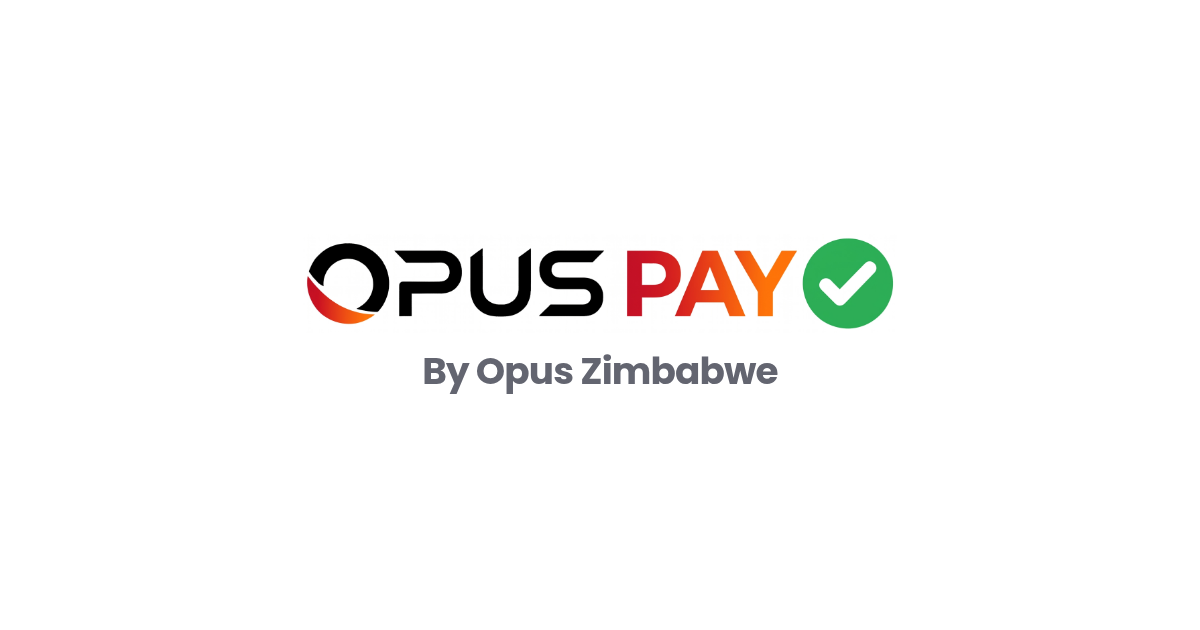
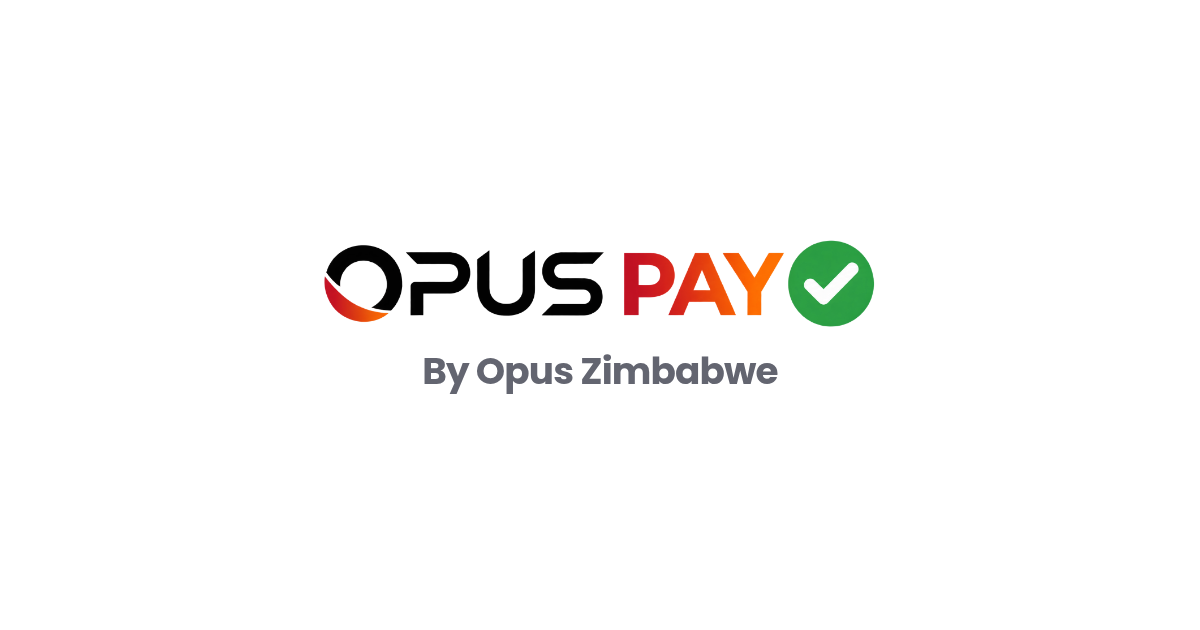
Restore one-screen payment form and transparent Opus Pay branding

Changed region(s): [[0.2467, 0.3619, 0.7708, 0.5429]]

diff --git a/components/PaymentCheckout.tsx b/components/PaymentCheckout.tsx
@@ -45,10 +45,7 @@ export default function PaymentCheckout() {
  const [ready, setReady] = useState(false);
  const [motion,setMotion]=useState(false);
  const [viewport,setViewport]=useState({width:1200,height:1000});
- const [detailStep,setDetailStep]=useState(0);
- const [includeNameStep,setIncludeNameStep]=useState(false);
  useEffect(()=>{const update=()=>{const v=window.visualViewport;const height=Math.round(v?.height||innerHeight);setViewport({width:innerWidth,height});document.documentElement.style.setProperty('--opus-viewport-height',height+'px')};update();window.addEventListener('resize',update);window.visualViewport?.addEventListener('resize',update);const bodyOverflow=document.body.style.overflow,htmlOverflow=document.documentElement.style.overflow;if(!session){document.body.style.overflow='hidden';document.documentElement.style.overflow='hidden'}return()=>{window.removeEventListener('resize',update);window.visualViewport?.removeEventListener('resize',update);document.body.style.overflow=bodyOverflow;document.documentElement.style.overflow=htmlOverflow;document.documentElement.style.removeProperty('--opus-viewport-height')}},[session]);
- useEffect(()=>{setDetailStep(0);setIncludeNameStep(false)},[form.method]);
  const entryRef=useRef<HTMLElement>(null);
  useEffect(()=>{setMotion(motionAllowed())},[]);
  useEffect(()=>{if(form.method)requestAnimationFrame(()=>entryRef.current?.focus({preventScroll:true}))},[form.method]);
@@ -136,7 +133,7 @@ export default function PaymentCheckout() {
  }, [session, checkStatus]);
  function change(key: keyof Form, value: string) { setForm(previous => ({ ...previous, [key]: value, ...(key === 'currency' ? { method: '' } : {}) })); if (key === 'method' || key === 'currency') setPhoneTouched(false); setError(''); }
  async function pay(event: React.FormEvent) {
-  event.preventDefault(); if(compactDetails&&detailStep<detailSteps.length-1){advanceDetails();return} if (busy || !config?.configured || configBusy || domainLoading || domainBlocked || careLoading || careBlocked) return;
+  event.preventDefault(); if (busy || !config?.configured || configBusy || domainLoading || domainBlocked || careLoading || careBlocked) return;
   if (!selectedMethod) return;
   if (network) { const problem = mobileNumberError(form.phone, network); if (problem) { setPhoneTouched(true); setError(problem); return; } }
   if (amountError) { setError(amountError); return; }
@@ -176,19 +173,9 @@ export default function PaymentCheckout() {
  const phoneValid = !network || !mobileNumberError(form.phone, network);
  const amountValue = Number(form.amount);
  const amountError = !form.amount ? '' : !/^\d+(\.\d{1,2})?$/.test(form.amount) ? 'Enter an amount with no more than two decimal places.' : selectedMethod && (amountValue < selectedMethod.minimumAmount || amountValue > selectedMethod.maximumAmount) ? `This method accepts ${form.currency} ${selectedMethod.minimumAmount.toFixed(2)}–${selectedMethod.maximumAmount.toFixed(2)}. Check your amount or choose another method.` : '';
- const compactDetails=viewport.width<701||viewport.height<900;
- const detailSteps=['reference','amount',...(network?['phone']:[]),...(!domainAccess?['contact']:[]),...(includeNameStep&&!domainAccess?['payer']:[]),'review'];
- const visibleStep=detailSteps[Math.min(detailStep,detailSteps.length-1)];
- const showStep=(step:string)=>!compactDetails||visibleStep===step;
- function advanceDetails(){
-  for(const input of Array.from(entryRef.current?.querySelectorAll<HTMLInputElement|HTMLSelectElement>('input,select')||[]))if(!input.reportValidity())return;
-  if(visibleStep==='amount'&&amountError){setError(amountError);return}
-  if(visibleStep==='phone'&&network){const problem=mobileNumberError(form.phone,network);if(problem){setPhoneTouched(true);setError(problem);return}}
-  setError('');setDetailStep(value=>Math.min(value+1,detailSteps.length-1));
- }
  const paid = receipt?.paid === true && !checkError;
  const pending = !receipt || !receipt.terminal;
- return <main className="payment-page opus-pay-page" data-motion={motion} data-compact-details={compactDetails} data-keyboard={viewport.height<430}>
+ return <main className="payment-page opus-pay-page" data-motion={motion} data-keyboard={viewport.height<430}>
   <article className={`payment-sheet ${session ? 'payment-receipt' : ''} ${session && pending && !checkError ? 'payment-pending' : ''} opus-pay-sheet`} aria-busy={busy || checking}>
    {paid&&<div className="receipt-verified-watermark" aria-hidden="true">OPUS<span>VERIFIED</span></div>}
    <header className="opus-pay-header"><OpusPayBrand/></header>
@@ -200,17 +187,16 @@ export default function PaymentCheckout() {
     <form onSubmit={pay} className="payment-form">
      {!selectedMethod&&<PaymentMethodPicker methods={config?.methods||[]} loading={configBusy} error={configError} onRetry={()=>setConfigRetry(v=>v+1)} disabled={busy||domainLoading||domainBlocked||careLoading||careBlocked} onSelect={method=>{setMotion(motionAllowed());change('method',method.code)}}/>}
      {!configBusy && config && !config.configured && <div className="payment-notice" role="status">Online payments are being set up. {support}</div>}
-     {selectedMethod && <section id="payment-entry" ref={entryRef} tabIndex={-1} className="payment-entry opus-detail-card" aria-labelledby="payment-entry-title"><div className="opus-selected-method"><MethodLogo name={selectedMethod.name}/><button type="button" disabled={busy||resumable} onClick={()=>change('method','')}>Change method</button></div><h1 id="payment-entry-title">{compactDetails?({reference:'Your reference',amount:'Payment amount',phone:'Mobile number',contact:'Receipt contact',payer:'Payer name',review:'Review payment'}[visibleStep]):'Payment details'}</h1>
-      {showStep('reference')&&<div className="opus-reference-field"><label>Invoice or project reference<input name="invoice" required maxLength={120} autoComplete="off" value={form.invoice} onChange={event=>change('invoice',event.target.value)} placeholder="Reference from your quote or invoice" disabled={busy||Boolean(domainAccess)||Boolean(careAccess)}/></label></div>}
-      {showStep('amount')&&<div className="opus-amount-currency"><label>Amount to pay<input name="amount" type="text" inputMode="decimal" required maxLength={12} value={form.amount} onChange={event=>change('amount',event.target.value)} aria-invalid={Boolean(amountError)} aria-describedby="payment-amount-feedback" placeholder="0.00" disabled={busy||Boolean(domainAccess)||Boolean(careAccess)}/></label><label>Currency<select aria-label="Payment currency" value="USD" disabled={busy}><option value="USD">USD</option><option value="ZiG" disabled>ZiG — temporarily unavailable</option></select></label></div>}
-      {network&&showStep('phone') && <div className="payment-mobile-field"><label htmlFor="payment-mobile">{network === 'onemoney' ? 'OneMoney' : 'EcoCash'} mobile number<input id="payment-mobile" name="phone" type="tel" inputMode="tel" autoComplete="tel" required maxLength={24} value={form.phone} onChange={event => change('phone', event.target.value)} onBlur={() => setPhoneTouched(true)} aria-invalid={Boolean(phoneError)} aria-describedby="payment-mobile-feedback" placeholder={network === 'onemoney' ? '0710 000 000' : '0770 000 000'} disabled={busy} /></label><p id="payment-mobile-feedback" className={`payment-field-feedback ${phoneError ? 'is-error' : ''}`} role={phoneError ? 'alert' : undefined}>{phoneError || (network === 'onemoney' ? 'OneMoney: 071. You can also use +263.' : 'EcoCash: 077, 078 or 079. You can also use +263.')}</p></div>}
-      {showStep('amount')&&<p id="payment-amount-feedback" className={`payment-field-feedback ${amountError ? 'is-error' : ''}`} role={amountError ? 'alert' : undefined}>{amountError || `Use the ${form.currency} amount agreed on your quote or invoice.`}</p>}
-      {!domainAccess&&showStep('contact')&&<><label className="opus-email-field">Receipt email (optional)<input name="email" type="email" inputMode="email" autoComplete="email" maxLength={254} value={form.email} onChange={event=>change('email',event.target.value)} placeholder="you@example.com" disabled={busy}/></label>{compactDetails?<button type="button" className="opus-add-payer" onClick={()=>{for(const input of Array.from(entryRef.current?.querySelectorAll<HTMLInputElement>('input')||[]))if(!input.reportValidity())return;setIncludeNameStep(true);setDetailStep(detailSteps.indexOf('contact')+1)}}>+ Add payer name</button>:<details className="payment-optional"><summary>+ Add payer name</summary><label>Payer name<input name="name" autoComplete="name" maxLength={100} value={form.name} onChange={event=>change('name',event.target.value)} disabled={busy}/></label></details>}</>}
-      {compactDetails&&showStep('payer')&&<label>Payer name (optional)<input name="name" autoComplete="name" maxLength={100} value={form.name} onChange={event=>change('name',event.target.value)} disabled={busy}/></label>}
-      {showStep('review')&&<><div className="opus-total"><span>Total to pay</span><strong>{form.currency} {Number.isFinite(amountValue)?amountValue.toLocaleString('en-US',{minimumFractionDigits:2,maximumFractionDigits:2}):'0.00'}</strong></div>
+     {selectedMethod && <section id="payment-entry" ref={entryRef} tabIndex={-1} className="payment-entry opus-detail-card" aria-labelledby="payment-entry-title"><div className="opus-selected-method"><MethodLogo name={selectedMethod.name}/><button type="button" disabled={busy||resumable} onClick={()=>change('method','')}>Change method</button></div><h1 id="payment-entry-title">Payment details</h1>
+      {<div className="opus-reference-field"><label>Invoice or project reference<input name="invoice" required maxLength={120} autoComplete="off" value={form.invoice} onChange={event=>change('invoice',event.target.value)} placeholder="Reference from your quote or invoice" disabled={busy||Boolean(domainAccess)||Boolean(careAccess)}/></label></div>}
+      {<div className="opus-amount-currency"><label>Amount to pay<input name="amount" type="text" inputMode="decimal" required maxLength={12} value={form.amount} onChange={event=>change('amount',event.target.value)} aria-invalid={Boolean(amountError)} aria-describedby="payment-amount-feedback" placeholder="0.00" disabled={busy||Boolean(domainAccess)||Boolean(careAccess)}/></label><label>Currency<select aria-label="Payment currency" value="USD" disabled={busy}><option value="USD">USD</option><option value="ZiG" disabled>ZiG — temporarily unavailable</option></select></label></div>}
+      {network && <div className="payment-mobile-field"><label htmlFor="payment-mobile">{network === 'onemoney' ? 'OneMoney' : 'EcoCash'} mobile number<input id="payment-mobile" name="phone" type="tel" inputMode="tel" autoComplete="tel" required maxLength={24} value={form.phone} onChange={event => change('phone', event.target.value)} onBlur={() => setPhoneTouched(true)} aria-invalid={Boolean(phoneError)} aria-describedby="payment-mobile-feedback" placeholder={network === 'onemoney' ? '0710 000 000' : '0770 000 000'} disabled={busy} /></label><p id="payment-mobile-feedback" className={`payment-field-feedback ${phoneError ? 'is-error' : ''}`} role={phoneError ? 'alert' : undefined}>{phoneError || (network === 'onemoney' ? 'OneMoney: 071. You can also use +263.' : 'EcoCash: 077, 078 or 079. You can also use +263.')}</p></div>}
+      {<p id="payment-amount-feedback" className={`payment-field-feedback ${amountError ? 'is-error' : ''}`} role={amountError ? 'alert' : undefined}>{amountError || `Use the ${form.currency} amount agreed on your quote or invoice.`}</p>}
+      {!domainAccess&&<><label className="opus-email-field">Receipt email (optional)<input name="email" type="email" inputMode="email" autoComplete="email" maxLength={254} value={form.email} onChange={event=>change('email',event.target.value)} placeholder="you@example.com" disabled={busy}/></label><label className="opus-payer-field">Payer name (optional)<input name="name" autoComplete="name" maxLength={100} value={form.name} onChange={event=>change('name',event.target.value)} disabled={busy}/></label></>}
+      {<><div className="opus-total"><span>Total to pay</span><strong>{form.currency} {Number.isFinite(amountValue)?amountValue.toLocaleString('en-US',{minimumFractionDigits:2,maximumFractionDigits:2}):'0.00'}</strong></div>
       <button type="submit" className="payment-submit" disabled={form.currency!=='USD' || busy || configBusy || domainLoading || domainBlocked || careLoading || careBlocked || !config?.configured || !phoneValid || !form.amount || !form.invoice.trim() || Boolean(amountError)}>{busy ? <><LoaderCircle size={20} className="payment-spinner" />Starting secure payment…</> : <><ShieldCheck size={20} />{directMobile ? 'Request payment' : (selectedMethod?.provider==='paynow'?'Continue to Paynow':'Continue to Pesepay')}</>}</button>
       <p className="payment-small text-center">{directMobile ? 'Confirm the payment request on your phone. Enter your PIN only in your provider’s trusted prompt.' : `Authorise securely on ${selectedMethod?.provider==='paynow'?'Paynow':'Pesepay'}. We will confirm the result when you return.`}</p></>}
-      {compactDetails&&<div className="opus-detail-navigation">{detailStep>0&&<button type="button" disabled={busy} onClick={()=>{setError('');setDetailStep(v=>Math.max(0,v-1))}}>Back</button>}{detailStep<detailSteps.length-1&&<button type="button" className="payment-submit" onClick={advanceDetails}>Continue <ArrowUpRight size={16}/></button>}</div>}
+
      </section>}
         </form>
    </> : <>

diff --git a/components/opus-pay.css b/components/opus-pay.css
@@ -266,3 +266,45 @@
 /* Exact owner-supplied artwork; the SVG viewport removes only blank margins. */
 .opus-official-logo{display:block;width:100%;height:45px;overflow:hidden;transform:none;mix-blend-mode:multiply}
 @media(max-width:700px){.opus-official-logo{height:40px}}
+
+/* One compact form: every field stays on the same screen, without step navigation. */
+.opus-pay-page:has(.opus-detail-card) .opus-pay-header{height:96px;padding-top:18px}
+.opus-pay-page:has(.opus-detail-card) .opus-pay-footer{margin-top:22px}
+.opus-pay-page .opus-detail-card{display:grid;grid-template-columns:minmax(0,1fr) minmax(0,1fr);column-gap:14px;row-gap:10px;padding:22px 28px;max-width:600px}
+.opus-detail-card>.opus-selected-method,.opus-detail-card>h1,.opus-detail-card>.opus-reference-field,.opus-detail-card>.opus-amount-currency,.opus-detail-card>.payment-mobile-field,.opus-detail-card>.payment-field-feedback,.opus-detail-card>.opus-total,.opus-detail-card>.payment-submit,.opus-detail-card>.payment-small{grid-column:1/-1}
+.opus-pay-page .opus-detail-card h1{font-size:18px;margin:0 0 2px}
+.opus-detail-card .opus-selected-method{height:32px;min-height:32px;margin:0}
+.opus-detail-card .opus-selected-method .opus-provider-art{transform:scale(.55);transform-origin:left center}
+.opus-detail-card .opus-reference-field,.opus-detail-card .opus-email-field,.opus-detail-card .opus-payer-field{margin:0}
+.opus-pay-page .opus-detail-card label{font-size:11px;gap:4px;min-width:0;display:flex;flex-direction:column}
+.opus-pay-page .opus-detail-card input,.opus-pay-page .opus-detail-card select{width:100%;min-width:0;min-height:40px;padding:8px 10px;font-size:16px}
+.opus-pay-page .opus-detail-card .payment-field-feedback{margin:0;font-size:10px;line-height:1.3}
+.opus-detail-card .payment-mobile-field .payment-field-feedback{margin-top:4px}
+.opus-detail-card .opus-total{margin:0;padding-top:8px}.opus-detail-card .opus-total strong{font-size:20px}
+.opus-pay-page .opus-detail-card .payment-submit{margin:0;min-height:44px;font-size:13px}
+.opus-pay-page .opus-detail-card .payment-small{margin:0;font-size:10px;line-height:1.4}
+.opus-method-group{height:184px}.opus-mobile-group{height:266px;margin-top:68px}
+@media(max-width:700px){.opus-method-group{height:165px}.opus-mobile-group{height:242px;margin-top:56px}.opus-pay-page:has(.opus-detail-card) .opus-pay-header{height:84px;padding-top:12px}.opus-pay-page .opus-detail-card{padding:18px;column-gap:10px;row-gap:8px}.opus-pay-page:has(.opus-detail-card) .opus-pay-footer{margin-top:18px}}
+@media(min-width:701px) and (max-height:780px){.opus-method-group{height:158px}.opus-mobile-group{height:219px;margin-top:54px}}
+@media(min-width:701px) and (max-height:680px){.opus-method-group{height:133px}.opus-mobile-group{height:187px;margin-top:46px}}
+@media(max-width:700px) and (max-height:680px){.opus-method-group{height:139px}.opus-mobile-group{height:199px;margin-top:44px}.opus-pay-page:has(.opus-detail-card) .opus-pay-header{height:62px;padding-top:6px}.opus-pay-page:has(.opus-detail-card) .opus-pay-brand{width:210px}.opus-pay-page:has(.opus-detail-card) .opus-official-logo{height:28px}.opus-pay-page:has(.opus-detail-card) .opus-pay-attribution{font-size:12px}.opus-pay-page .opus-detail-card{padding:12px 16px;row-gap:6px}.opus-pay-page .opus-detail-card input,.opus-pay-page .opus-detail-card select{min-height:35px;padding:5px 8px}.opus-pay-page:has(.opus-detail-card) .opus-pay-footer{margin-top:12px}.opus-pay-page:has(.opus-detail-card) .opus-footer-rule{margin-bottom:7px}}
+.opus-pay-page[data-keyboard=true]:has(.opus-detail-card){padding:0 8px}
+.opus-pay-page[data-keyboard=true]:has(.opus-detail-card) .opus-pay-header{height:28px!important;padding-top:2px!important}
+.opus-pay-page[data-keyboard=true] .opus-pay-brand{width:130px;transform:none}.opus-pay-page[data-keyboard=true] .opus-official-logo{height:22px}.opus-pay-page[data-keyboard=true] .opus-pay-attribution{display:none}
+.opus-pay-page[data-keyboard=true] .opus-detail-card{padding:7px 12px;gap:4px 8px}
+.opus-pay-page[data-keyboard=true] .opus-detail-card h1{position:absolute;width:1px;height:1px;overflow:hidden;clip-path:inset(50%)}
+.opus-pay-page[data-keyboard=true] .opus-detail-card .opus-reference-field,.opus-pay-page[data-keyboard=true] .opus-detail-card .payment-mobile-field{grid-column:auto}
+.opus-pay-page[data-keyboard=true] .opus-detail-card input,.opus-pay-page[data-keyboard=true] .opus-detail-card select{min-height:30px;height:30px;padding:3px 6px}
+.opus-pay-page[data-keyboard=true] .opus-detail-card .opus-selected-method{height:22px;min-height:22px}
+.opus-pay-page[data-keyboard=true] .opus-detail-card .payment-submit{min-height:34px;margin:0}
+.opus-pay-page[data-keyboard=true] .opus-total{padding-top:3px}.opus-pay-page[data-keyboard=true] .opus-total strong{font-size:16px}
+.opus-pay-page[data-keyboard=true] .opus-detail-card .payment-field-feedback:not(.is-error){display:none}
+.opus-pay-page[data-keyboard=true] .opus-detail-card .payment-small{font-size:9px;line-height:1.2}
+.opus-pay-page[data-motion=true] .opus-detail-card{animation-duration:360ms}
+.opus-official-logo{mix-blend-mode:normal}
+.opus-pay-page .opus-detail-card label{line-height:1.3}
+.opus-pay-page .opus-detail-card .payment-mobile-field{margin:0}
+.opus-pay-page .opus-detail-card input,.opus-pay-page .opus-detail-card select{height:40px;line-height:1.25}
+.opus-pay-page .opus-detail-card .payment-submit{line-height:1.3;padding:8px}
+@media(max-width:700px) and (max-height:680px){.opus-pay-page .opus-detail-card input,.opus-pay-page .opus-detail-card select{height:35px}.opus-pay-page .opus-detail-card label{font-size:10px}.opus-pay-page .opus-detail-card .payment-small{font-size:9px;line-height:1.3}.opus-pay-page .opus-detail-card .opus-total{font-size:11px}.opus-pay-page .opus-detail-card .opus-total strong{font-size:18px}}
+.opus-pay-page[data-keyboard=true] .opus-detail-card input,.opus-pay-page[data-keyboard=true] .opus-detail-card select{height:30px}

diff --git a/components/PaymentMethodPicker.tsx b/components/PaymentMethodPicker.tsx
@@ -12,7 +12,7 @@ export const paymentBrands = [
  {key:'pos2u',name:'POS2U',pattern:/pos2u/i,src:'/images/opus-pay/pos2u.svg'},
  {key:'telecash',name:'Telecash',pattern:/telecash/i,src:'/images/payments/telecash.png'},
 ];
-export function OpusPayBrand(){return <a href="https://opuszim.co.zw/" className="opus-pay-brand" aria-label="Opus Pay by Opus Zimbabwe"><svg className="opus-official-logo" viewBox="138 878 1772 293" role="img" aria-label="Opus Pay" preserveAspectRatio="xMidYMid meet"><image href="/images/opus-pay/official-logo.jpg" width="2048" height="2048"/></svg><span className="opus-pay-attribution">By Opus Zimbabwe</span></a>}
+export function OpusPayBrand(){return <a href="https://opuszim.co.zw/" className="opus-pay-brand" aria-label="Opus Pay by Opus Zimbabwe"><svg className="opus-official-logo" viewBox="90 190 2000 350" role="img" aria-label="Opus Pay" preserveAspectRatio="xMidYMid meet"><image href="/images/opus-pay/official-logo-transparent.png" width="2172" height="724"/></svg><span className="opus-pay-attribution">By Opus Zimbabwe</span></a>}
 
 export function PaymentBrand({name}:{name:string}){
  const brand=paymentBrands.find(b=>b.pattern.test(name));
@@ -22,9 +22,9 @@ export function PaymentBrand({name}:{name:string}){
  return <span className={`opus-provider-art opus-art-${brand.key}`}><img src={brand.src} alt={brand.name} draggable={false}/></span>;
 }
 export function motionAllowed(){
- if(typeof window==='undefined'||document.documentElement.dataset.opusMotion==='off')return false;
+ if(typeof window==='undefined')return false;
  const connection=(navigator as Navigator&{connection?:{saveData?:boolean;effectiveType?:string;downlink?:number}}).connection;
- return !window.matchMedia('(prefers-reduced-motion: reduce)').matches&&!connection?.saveData&&!/^(slow-2g|2g|3g)$/.test(connection?.effectiveType||'')&&!(connection?.downlink!==undefined&&connection.downlink<1.5);
+ return !window.matchMedia('(prefers-reduced-motion: reduce)').matches&&!connection?.saveData;
 }
 function Notch({wide=false}:{wide?:boolean}){
  const ref=useRef<SVGSVGElement>(null),[size,setSize]=useState({width:1084,height:wide?336:240});
@@ -46,9 +46,9 @@ export default function PaymentMethodPicker({methods,loading,error,onRetry,onSel
   window.addEventListener('pointermove',stopForUser,{once:true});window.addEventListener('pointerdown',stopForUser,{once:true});window.addEventListener('keydown',stopForUser,{once:true});media.addEventListener('change',preferenceChanged);connection?.addEventListener('change',preferenceChanged);
   const advance=()=>{if(disposed||cancelled.current||!motionAllowed()||document.hidden){setCue(-1);return}try{sessionStorage.setItem('opus-pay-intro-seen','1')}catch{}setCue(index++);if(index<9)timer=setTimeout(advance,210);else timer=setTimeout(()=>{setCue(-1);cancelled.current=true},210)};
   // Sample actual frame delivery before allowing cosmetic motion.
-  const sample=(time:number)=>{if(!firstFrame.current)firstFrame.current=time;frames.current++;if(time-firstFrame.current<180){raf=requestAnimationFrame(sample);return}if(frames.current>=7&&motionAllowed())timer=setTimeout(advance,220);else document.documentElement.dataset.opusMotion='off'};
+  const sample=(time:number)=>{if(!firstFrame.current)firstFrame.current=time;frames.current++;if(time-firstFrame.current<180){raf=requestAnimationFrame(sample);return}if(frames.current>=7&&motionAllowed())timer=setTimeout(advance,220);else stopForUser()};
   let previous=0,slowFrames=0,monitor=0;
-  const measure=(time:number)=>{if(previous&&time-previous>48)slowFrames++;else slowFrames=Math.max(0,slowFrames-1);previous=time;if(slowFrames>=3){document.documentElement.dataset.opusMotion='off';stopForUser();return}if(!cancelled.current&&!disposed)monitor=requestAnimationFrame(measure)};
+  const measure=(time:number)=>{if(previous&&time-previous>48)slowFrames++;else slowFrames=Math.max(0,slowFrames-1);previous=time;if(slowFrames>=3){stopForUser();return}if(!cancelled.current&&!disposed)monitor=requestAnimationFrame(measure)};
   if(motionAllowed()){raf=requestAnimationFrame(sample);monitor=requestAnimationFrame(measure)}
   return()=>{disposed=true;cancelAnimationFrame(raf);cancelAnimationFrame(monitor);clearTimeout(timer);window.removeEventListener('pointermove',stopForUser);window.removeEventListener('pointerdown',stopForUser);window.removeEventListener('keydown',stopForUser);media.removeEventListener('change',preferenceChanged);connection?.removeEventListener('change',preferenceChanged)};
  },[loading]);

diff --git a/ops/activation/deploy-opus-pay.py b/ops/activation/deploy-opus-pay.py
@@ -10,7 +10,7 @@ ROOT = pathlib.Path(__file__).resolve().parents[2]
 ACCOUNT = 'bfdd1ae2b409f941958f78ea99348c2e'
 PROJECT = 'opuszimbabwe'
 DATABASE = '885cb934-939a-4080-a48f-40901a111cc2'
-BASELINE = '68343609-9b54-4e6b-95e0-3b693c2c4ecc'
+BASELINE = '0b03870b-8f67-4534-a12b-0d67cbdc5145'
 API = 'https://api.cloudflare.com/client/v4'
 PREFIX = f'/accounts/{ACCOUNT}/pages/projects/{PROJECT}'
 RELEASE = pathlib.Path('/tmp/opus-pay-release')

diff --git a/ops/activation/OPUS-PAY.md b/ops/activation/OPUS-PAY.md
@@ -64,7 +64,7 @@ uses the Simple Icons vector path; Mastercard uses the original vector artwork
 from gilbarbara/logos with a horizontal lockup. POS2U is a lightweight vector
 wordmark reconstruction pending an original downloadable vector. The supplied
 chat images are visual references; their original attachment files are not
-mounted in this workspace. The merchant lockup now uses the unmodified owner-supplied official JPEG; see
+mounted in this workspace. The merchant lockup uses a transparent derivative of the owner-supplied JPEG; see
 `docs/OPUS-PAY-ARTWORK.md` for its checksum and display viewport. Poppins' OFL license is shipped with the fonts.
 
 ## Compact responsive revision
@@ -79,10 +79,14 @@ details use focused steps that also fit when the mobile keyboard is open.
 
 ## One-screen payment details
 
-Small or short screens present reference, amount, phone when needed, optional
-receipt contact, optional payer name and review as focused steps. State persists
-across steps; initiation occurs only from the final review. The form follows
-visualViewport height changes, including the mobile keyboard. Required fields,
-errors and the final action are verified visible rather than merely clipped.
+All fields remain together in one compact responsive form. There is no step
+navigation: reference, amount/currency, mobile number where needed, optional
+email and payer name, total and provider handoff stay visible together. Small
+screens reduce spacing and use columns; visualViewport tracks the keyboard.
 Issued receipt documents retain their accessible document layout.
-Run `npm run test:checkout:no-scroll` for these cases.
+Run `npm run test:checkout:no-scroll` for visibility and no-step assertions.
+
+CSS form reveal runs from 50% opacity and an 18px offset over 360ms. Reduced
+motion and explicit data saving disable it. Estimated network speed does not
+predict local CSS animation performance; introductory frame sampling only
+cancels the logo cue, rather than permanently disabling later form reveals.

diff --git a/docs/OPUS-PAY-ARTWORK.md b/docs/OPUS-PAY-ARTWORK.md
@@ -6,8 +6,9 @@ The owner supplied `Opus Pay.zip` on 17 November 2026. It contains one JPEG:
 The deployed `/images/opus-pay/official-logo.jpg` is a byte-for-byte copy.
[1 lines of base64/hex data omitted]
 
-The header displays the original through an SVG viewBox (138, 878, 1772, 293)
-that excludes blank outer margins while retaining all coloured artwork and a
-small safe margin. No lettering, checkmark, proportions or pixels are redrawn,
-skewed or retouched. The approved subdued header treatment is applied to the
-whole lockup; the social preview renders it at full opacity on white.
+The header now displays `/images/opus-pay/official-logo-transparent.png`, a
+background-removal derivative made with the image editing tool at the owner's
+request. The original JPEG remains unchanged for provenance. The transparent
+artwork uses an SVG viewport to exclude empty margins. No italic/skew transform
+is applied. The subdued header treatment remains; the social preview renders
+at full opacity against white.
